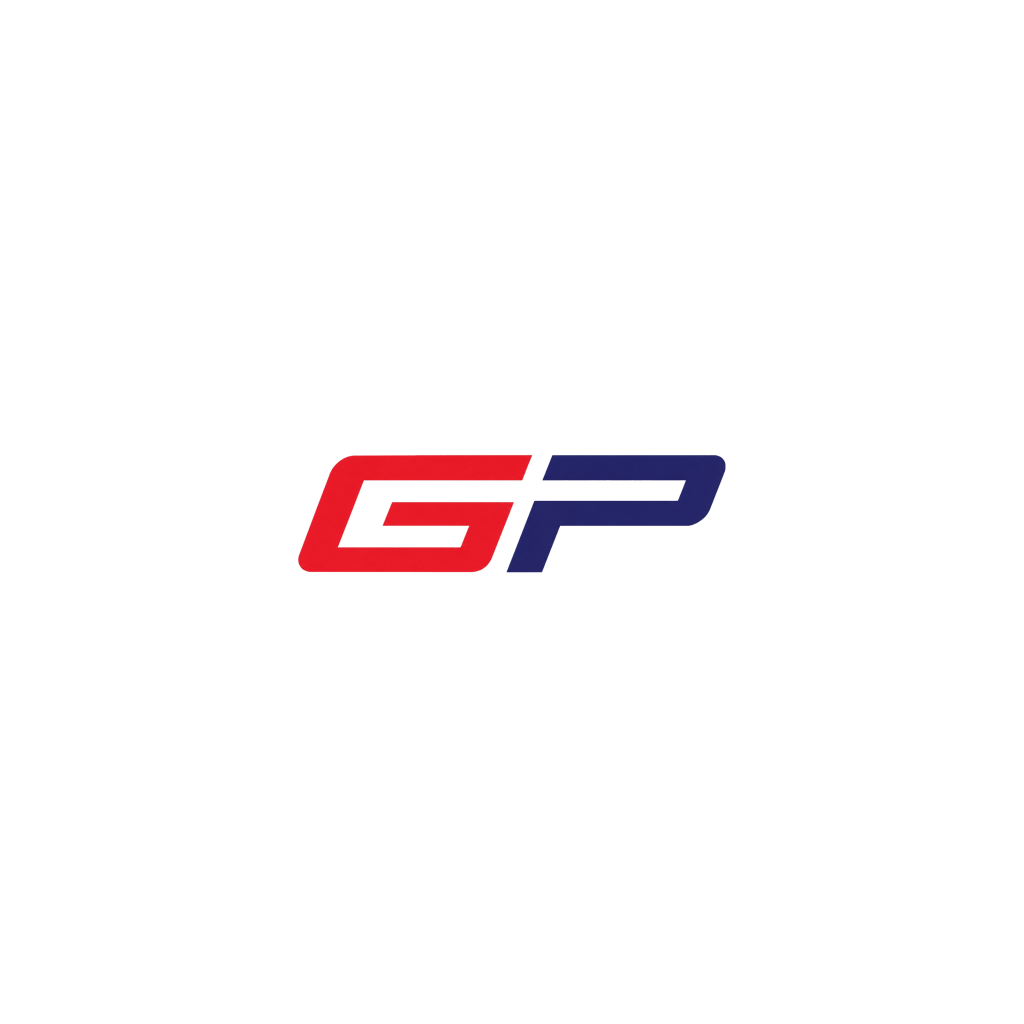
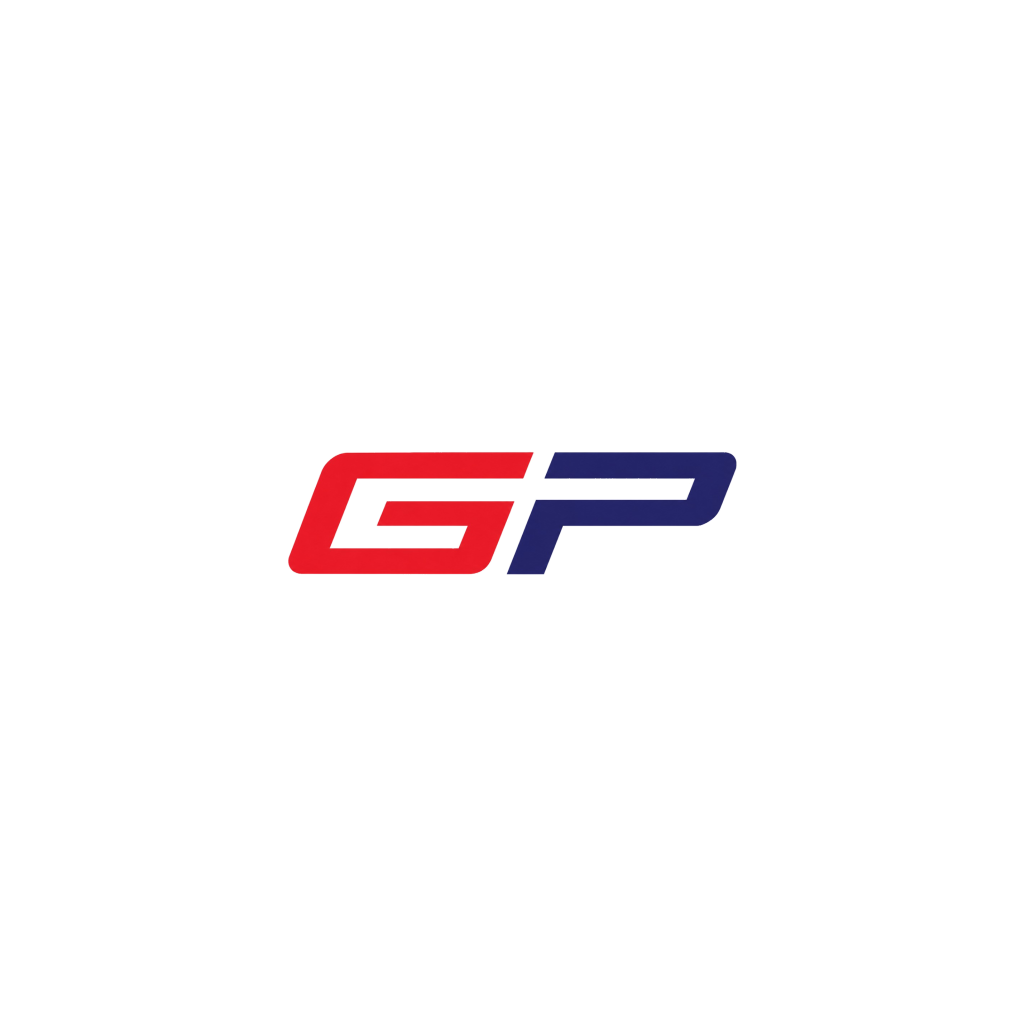
feat(garantia): mecanico escolhe quais pneus o cliente comprou + icones brancos
- Ativacao nao exige mais os 4 pneus: o mecanico marca QUAIS posicoes receberam
  pneu novo (incluindo estepe) e so essas viram campo pra preencher. Quem comprou
  2 preenche 2. O servidor ja aceitava de 1 a 5 — era a tela que travava.
- Fotos do pneu (pneu + etiqueta) validadas no app antes de enviar, com o nome da
  posicao no aviso em vez de "pneu 1".
- Icone do app com fundo BRANCO (estava azul-marinho quase preto na tela inicial),
  usando a mesma logo oficial.

Changed region(s): [[0.2812, 0.4375, 0.7188, 0.5625], [0.5, 0.5312, 0.5312, 0.5625]]

diff --git a/garantia-mobile/src/app/(mechanic)/new-warranty.tsx b/garantia-mobile/src/app/(mechanic)/new-warranty.tsx
@@ -11,14 +11,19 @@ import { Foto } from '../../lib/foto';
 const soDigitos = (s: string) => s.replace(/\D/g, '');
 const fmtCPF = (s: string) => soDigitos(s).slice(0, 11).replace(/(\d{3})(\d)/, '$1.$2').replace(/(\d{3})(\d)/, '$1.$2').replace(/(\d{3})(\d{1,2})$/, '$1-$2');
 
+// O cliente pode comprar de 1 a 5 pneus (nem todo mundo troca os 4) — o mecânico marca
+// QUAIS posições foram compradas e só essas viram cartão pra preencher. Antes a tela
+// exigia os 4 sempre, travando quem comprou 2.
 const POSICOES = [
-  { key: 'dianteiro_esquerdo', label: 'Pneu 1' },
-  { key: 'dianteiro_direito', label: 'Pneu 2' },
-  { key: 'traseiro_esquerdo', label: 'Pneu 3' },
-  { key: 'traseiro_direito', label: 'Pneu 4' },
+  { key: 'dianteiro_esquerdo', label: 'Dianteiro esquerdo' },
+  { key: 'dianteiro_direito', label: 'Dianteiro direito' },
+  { key: 'traseiro_esquerdo', label: 'Traseiro esquerdo' },
+  { key: 'traseiro_direito', label: 'Traseiro direito' },
+  { key: 'estepe', label: 'Estepe' },
 ];
+const rotuloPosicao = (key: string) => POSICOES.find((p) => p.key === key)?.label || key;
 type PneuForm = { posicao: string; marca: string; medida: string; dot: string; codigoSerie: string; foto: Foto; fotoEtiqueta: Foto };
-const pneuInicial = (): PneuForm[] => POSICOES.map((p) => ({ posicao: p.key, marca: 'GP Premium', medida: '', dot: '', codigoSerie: '', foto: null, fotoEtiqueta: null }));
+const novoPneu = (posicao: string): PneuForm => ({ posicao, marca: 'GP Premium', medida: '', dot: '', codigoSerie: '', foto: null, fotoEtiqueta: null });
 
 export default function NewWarranty() {
   const router = useRouter();
@@ -30,8 +35,18 @@ export default function NewWarranty() {
   const [fVeic, setFVeic] = useState<Foto>(null);
   const [fOdo, setFOdo] = useState<Foto>(null);
   const [fEtiq, setFEtiq] = useState<Foto>(null);
-  const [pneus, setPneus] = useState<PneuForm[]>(pneuInicial());
+  const [pneus, setPneus] = useState<PneuForm[]>([]);
   const [salvando, setSalvando] = useState(false);
+
+  // Liga/desliga uma posição. Ao ligar cria o cartão daquele pneu; ao desligar joga fora
+  // o que já tinha sido preenchido nele (inclusive as fotos) — é o que o mecânico espera
+  // ao dizer "esse aqui o cliente não comprou".
+  const togglePosicao = (key: string) => setPneus((ps) => {
+    if (ps.some((p) => p.posicao === key)) return ps.filter((p) => p.posicao !== key);
+    // Mantém sempre na ordem das POSICOES, não na ordem em que foi clicado.
+    const comNovo = [...ps, novoPneu(key)];
+    return POSICOES.map((pos) => comNovo.find((p) => p.posicao === pos.key)).filter(Boolean) as PneuForm[];
+  });
 
   const buscar = async () => {
     if (soDigitos(cpf).length !== 11) return Alert.alert('Ops', 'Digite o CPF completo.');
@@ -55,6 +70,12 @@ export default function NewWarranty() {
     if (!cli.nome.trim()) return Alert.alert('Ops', 'Informe o nome do cliente.');
     if (soDigitos(vei.placa).length + vei.placa.replace(/[^A-Za-z]/g, '').length < 7) { /* validação leve */ }
     if (!vei.placa.trim() || vei.km === '') return Alert.alert('Ops', 'Informe placa e KM atual.');
+    if (pneus.length === 0) return Alert.alert('Ops', 'Marque quais pneus o cliente comprou.');
+    for (const p of pneus) {
+      const nome = rotuloPosicao(p.posicao);
+      if (!p.foto?.base64) return Alert.alert('Foto obrigatória', `Tire a foto do pneu ${nome}.`);
+      if (!p.fotoEtiqueta?.base64) return Alert.alert('Foto obrigatória', `Tire a foto da etiqueta do pneu ${nome}.`);
+    }
     setSalvando(true);
     try {
       const r = await api<any>('/api/garantia/garantias', {
@@ -130,10 +151,27 @@ export default function NewWarranty() {
           )}
         </View>
 
+        {/* Quais pneus o cliente comprou (nem sempre são os 4) */}
+        <View style={s.card}>
+          <Text style={s.cardTitle}>Pneus comprados</Text>
+          <Text style={s.ajuda}>Marque só as posições que receberam pneu novo.</Text>
+          <View style={s.wrap}>
+            {POSICOES.map((pos) => {
+              const marcado = pneus.some((p) => p.posicao === pos.key);
+              return (
+                <TouchableOpacity key={pos.key} style={[s.pill, marcado && s.pillOn]} onPress={() => togglePosicao(pos.key)} activeOpacity={0.8}>
+                  <Text style={[s.pillT, marcado && s.pillTOn]}>{pos.label}</Text>
+                </TouchableOpacity>
+              );
+            })}
+          </View>
+          <Text style={s.ajuda}>{pneus.length === 0 ? 'Nenhum pneu marcado ainda.' : `${pneus.length} pneu(s) selecionado(s).`}</Text>
+        </View>
+
         {/* Pneus */}
         {pneus.map((p, i) => (
           <View key={p.posicao} style={s.card}>
-            <Text style={s.cardTitle}>{POSICOES[i].label}</Text>
+            <Text style={s.cardTitle}>{rotuloPosicao(p.posicao)}</Text>
             <View style={{ flexDirection: 'row', gap: 8 }}>
               <TextInput style={[s.input, { flex: 1 }]} placeholder="Medida (205/55 R16)" placeholderTextColor="#94a3b8" value={p.medida} onChangeText={(v) => setPneu(i, 'medida', v)} />
               <TextInput style={[s.input, { width: 90 }]} placeholder="DOT" placeholderTextColor="#94a3b8" keyboardType="number-pad" value={p.dot} onChangeText={(v) => setPneu(i, 'dot', soDigitos(v).slice(0, 4))} />
@@ -166,6 +204,12 @@ const s = StyleSheet.create({
   check: { width: 20, height: 20, borderRadius: 5, borderWidth: 1.5, borderColor: '#cbd5e1' },
   checkOn: { backgroundColor: '#0ea5e9', borderColor: '#0ea5e9' },
   checkTxt: { fontSize: 13, color: '#475569' },
+  ajuda: { fontSize: 12, color: '#64748b', marginBottom: 8 },
+  wrap: { flexDirection: 'row', flexWrap: 'wrap', gap: 6, marginBottom: 4 },
+  pill: { paddingHorizontal: 12, paddingVertical: 8, borderRadius: 999, borderWidth: 1, borderColor: '#cbd5e1' },
+  pillOn: { backgroundColor: '#0ea5e9', borderColor: '#0ea5e9' },
+  pillT: { fontSize: 12.5, color: '#475569', fontWeight: '600' },
+  pillTOn: { color: '#fff' },
   btn: { flexDirection: 'row', gap: 8, backgroundColor: '#0ea5e9', borderRadius: 12, padding: 16, alignItems: 'center', justifyContent: 'center', marginTop: 4 },
   btnText: { color: '#fff', fontWeight: '800', fontSize: 15, letterSpacing: 0.5 },
 });
